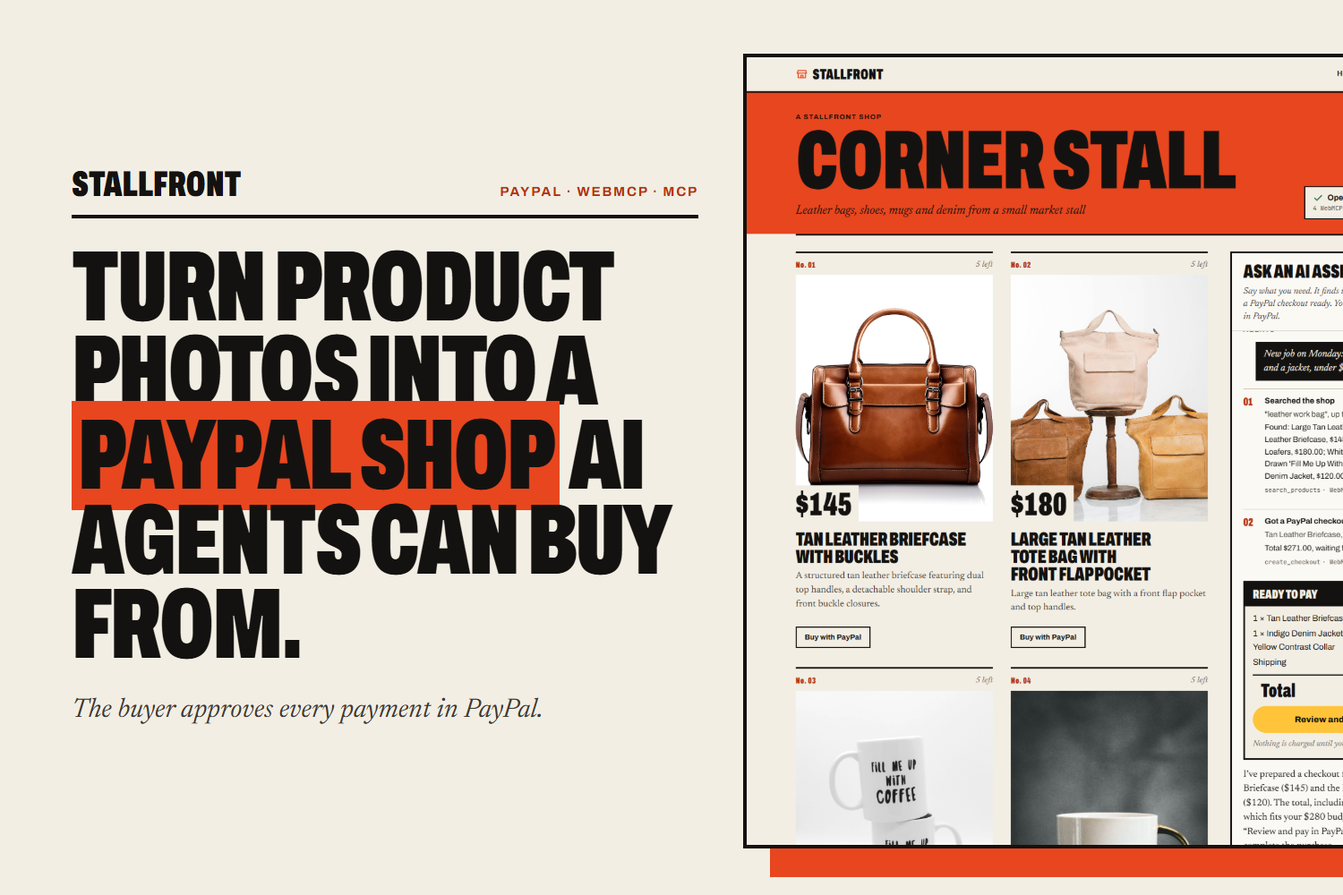
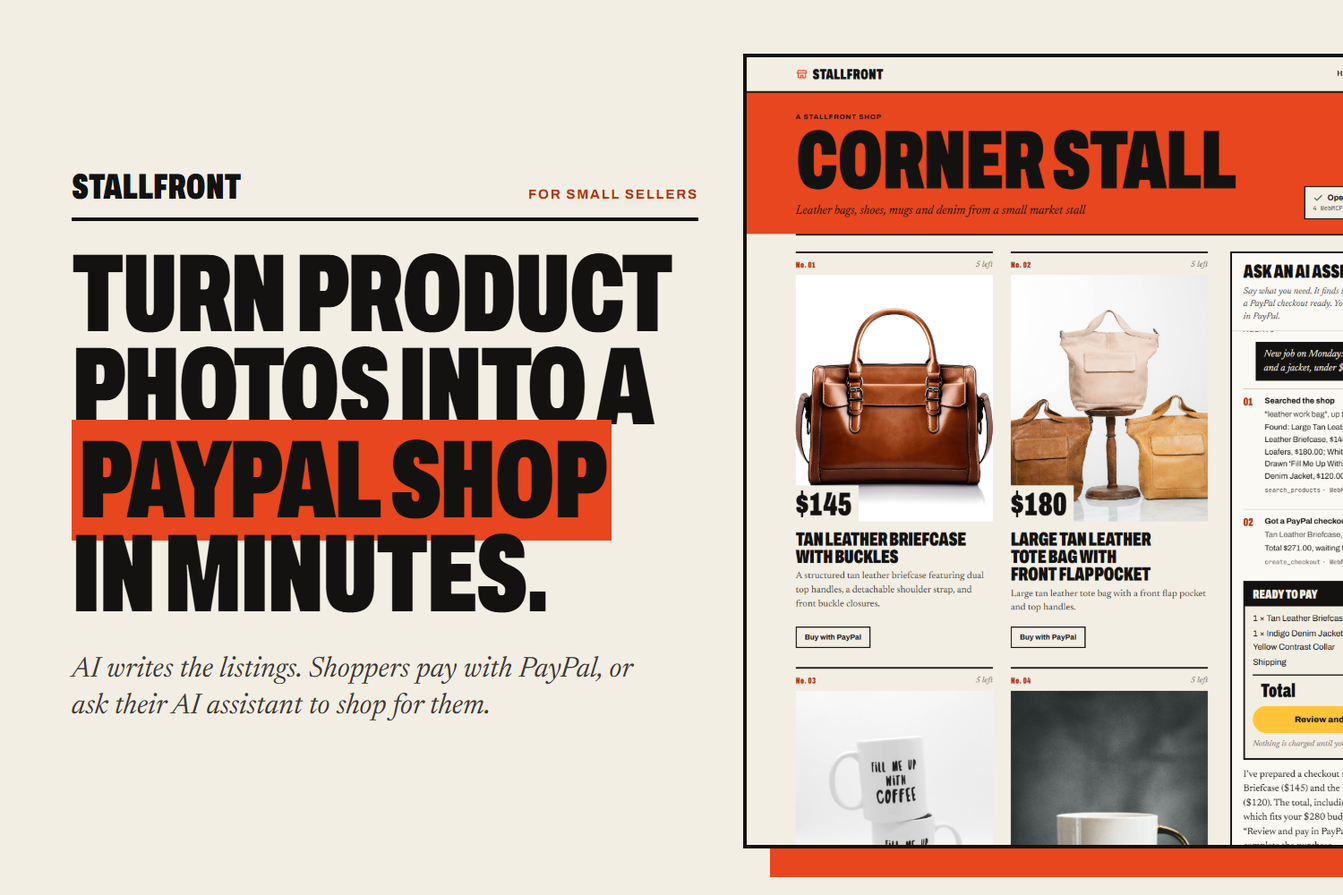
feat(copy): seller-first headline everywhere (D-009); seller view keeps shopper orders out of assistant steps
- Headline "Turn product photos into a PayPal shop in minutes.", always followed by the AI-assistant line
- Landing page title, description, hero and feature 03 (shoppers buy with PayPal or send an assistant)
- README title, opening, what it does, why it matters, proof row and try-it step for the Buy button
- Cover image rebuilt from docs/cover.html with scripts/cover.mjs
- Video script reordered: seller's problem, pitch, photos to shop, shopper and assistant, seller view
- Seller view: no "What the assistant did" list on a shopper's own order, and the activity panel lists assistant steps only
- README: coding-tool sentence removed

Changed region(s): [[0.0307, 0.279, 0.5213, 0.806], [0.0307, 0.186, 0.5213, 0.248]]

diff --git a/public/index.html b/public/index.html
@@ -3,8 +3,8 @@
 <head>
   <meta charset="utf-8">
   <meta name="viewport" content="width=device-width, initial-scale=1">
-  <title>Stallfront: turn product photos into a PayPal shop AI agents can buy from</title>
-  <meta name="description" content="Add photos of what you sell. Stallfront writes the listings, registers each product with PayPal and opens a shop AI shopping assistants can order from. The buyer approves every payment in PayPal.">
+  <title>Stallfront: turn product photos into a PayPal shop in minutes</title>
+  <meta name="description" content="Turn product photos into a PayPal shop in minutes. AI writes the listings. Shoppers pay with PayPal, or ask their AI assistant to shop for them.">
   <link rel="preconnect" href="https://fonts.googleapis.com">
   <link rel="preconnect" href="https://fonts.gstatic.com" crossorigin>
   <link href="https://fonts.googleapis.com/css2?family=Archivo:wdth,wght@62..125,400..900&family=Newsreader:ital,opsz,wght@0,6..72,400..600;1,6..72,400..600&family=JetBrains+Mono:wght@500&display=swap" rel="stylesheet">
@@ -71,8 +71,8 @@
     <section class="hero wrap">
       <div>
         <p class="kicker">For makers who sell through posts and PayPal links</p>
-        <h1>Turn product photos into a <span class="hl">PayPal shop</span> AI agents can buy from.</h1>
-        <p class="dek">Add photos of what you sell. Stallfront writes the listings, registers each product with PayPal and opens a shop that AI shopping assistants can search and order from. Your buyer approves every payment in PayPal.</p>
+        <h1>Turn product photos into a <span class="hl">PayPal shop</span> in minutes.</h1>
+        <p class="dek">AI writes the listings. Shoppers pay with PayPal, or ask their AI assistant to shop for them. Only the buyer can approve a payment.</p>
         <div class="cta">
           <a class="btn btn-clay" href="/new">Open your shop from photos</a>
           <a class="btn btn-ghost" href="/s/corner-stall">Try the demo shop</a>
@@ -131,8 +131,8 @@
         <div class="n">03</div>
         <h3>The buyer pays in PayPal</h3>
         <div>
-          <p>An assistant can get an order ready and hand it over. The buyer signs in to PayPal and approves the payment, and the money is captured on their way back.</p>
-          <p>You see every order, which assistant placed it and each step it took.</p>
+          <p>Shoppers press Buy with PayPal on any product, or let an assistant get the order ready. Either way, the buyer signs in to PayPal and approves the payment, and the money is captured on their way back.</p>
+          <p>You see every order, how it came in and, for an assistant's order, each step it took.</p>
         </div>
       </article>
     </section>

diff --git a/docs/cover.html b/docs/cover.html
@@ -1,0 +1,19 @@
+<!doctype html><html><head><meta charset="utf-8">
+<!-- Devpost thumbnail and README cover. Render with: node scripts/cover.mjs (writes docs/img/cover.png, 1500 x 1000). -->
+<link href="https://fonts.googleapis.com/css2?family=Archivo:wdth,wght@62..125,400..900&family=Newsreader:ital,opsz,wght@1,6..72,400&display=swap" rel="stylesheet">
+<style>
+html,body{margin:0;width:1500px;height:1000px;background:#f2eee4;color:#141210;overflow:hidden;font-family:Archivo,sans-serif}
+.wrap{display:grid;grid-template-columns:700px 1fr;height:100%;gap:50px;padding:0 0 0 80px;align-items:center}
+.brand{font:900 40px/1 Archivo;font-stretch:62%;text-transform:uppercase;border-bottom:4px solid #141210;padding-bottom:14px;margin-bottom:30px;display:flex;justify-content:space-between;align-items:baseline}
+.brand span{font:700 15px Archivo;letter-spacing:.12em;text-transform:uppercase;color:#b5320f}
+h1{font:900 124px/.84 Archivo;font-stretch:62%;text-transform:uppercase;letter-spacing:-.02em;margin:0 0 34px}
+h1 .hl{background:#e8461e;padding:0 .06em;box-decoration-break:clone;-webkit-box-decoration-break:clone}
+p{font:italic 400 32px/1.3 Newsreader,serif;color:#3e3933;margin:0;max-width:640px}
+.shot{position:relative;height:880px}
+.shot::before{content:'';position:absolute;inset:40px 0 -40px 30px;background:#e8461e}
+.shot img{position:relative;height:100%;display:block;object-fit:cover;object-position:left top;border:4px solid #141210;border-right:0}
+</style></head><body><div class="wrap"><div>
+<div class="brand">Stallfront<span>For small sellers</span></div>
+<h1>Turn product photos into a <span class="hl">PayPal shop</span> in minutes.</h1>
+<p>AI writes the listings. Shoppers pay with PayPal, or ask their AI assistant to shop for them.</p>
+</div><div class="shot"><img src="img/shop-assistant.png" alt=""></div></div></body></html>

diff --git a/public/js/dashboard.js b/public/js/dashboard.js
@@ -45,7 +45,7 @@ function renderOrders(orders) {
         </div>
         <div class="order-meta ids">PayPal order ${esc(o.paypalOrderId)}${o.captureId ? ` · payment ${esc(o.captureId)}` : ''}${ch.tech ? ` · ${ch.tech}` : ''}</div>
         ${o.note ? `<p class="note">The assistant's note: "${esc(o.note)}"</p>` : ''}
-        ${o.trace?.length ? `<details class="trace"><summary>What the assistant did (${o.trace.length} step${o.trace.length > 1 ? 's' : ''})</summary><ol>${o.trace.map((t) => `<li><span><span class="v">${esc(STEP[t.tool] || t.tool)}.</span> ${esc(t.summary)}</span><span class="tech">${esc(t.tool)}</span></li>`).join('')}</ol></details>` : ''}
+        ${o.trace?.length && o.channel !== 'web' ? `<details class="trace"><summary>What the assistant did (${o.trace.length} step${o.trace.length > 1 ? 's' : ''})</summary><ol>${o.trace.map((t) => `<li><span><span class="v">${esc(STEP[t.tool] || t.tool)}.</span> ${esc(t.summary)}</span><span class="tech">${esc(t.tool)}</span></li>`).join('')}</ol></details>` : ''}
       </article>`;
     })
     .join('');
@@ -53,8 +53,10 @@ function renderOrders(orders) {
 }
 
 function renderActivity(activity) {
-  if (!activity.length) return;
-  $('#activity').innerHTML = activity
+  // The panel is "What assistants did": a shopper's own Buy with PayPal click is not an assistant step.
+  const byAssistants = activity.filter((a) => a.channel !== 'web');
+  if (!byAssistants.length) return;
+  $('#activity').innerHTML = byAssistants
     .map((a) => `<li class="${a.ok ? '' : 'fail'}"><time datetime="${esc(a.at)}">${time(a.at)}</time><span class="t">${esc(STEP[a.tool] || a.tool)}</span><span class="s">${esc(a.summary)}</span><span class="tech">${esc(a.tool)} · ${esc(a.channel === 'mcp' ? 'MCP' : a.channel === 'web' ? 'website' : 'WebMCP')}</span></li>`)
     .join('');
 }

diff --git a/ops/DEMO.md b/ops/DEMO.md
@@ -1,12 +1,13 @@
 # DEMO: video script, shot list, recording steps
 
 Limit: under 3:00 (Official Rules s.4). Target: 2:45 to 2:50. Public on YouTube, English, no music you don't own.
-Every claim spoken here is in `ops/CLAIMS.md`.
+Every claim spoken here is in `ops/CLAIMS.md`. The story leads with the seller (D-009): the seller's problem, the pitch, opening a shop from photos, a shopper buying, then the seller's view.
 
 ## Before recording (Claude does this, on request)
 1. No more deploys until the video is done (each deploy wipes orders on Render).
 2. Redeploy once so the live seller view is clean, then warm the site.
-3. Create one paid MCP order on the live demo shop so the seller view shows both kinds of assistant (`scripts/mcp-check.mjs --checkout` + `scripts/approve-sandbox.mjs`).
+3. Create two paid orders on the live demo shop, so the seller view shows each way an order can arrive: one from a shopper's **Buy with PayPal** button (`scripts/buy-check.mjs` + `scripts/approve-sandbox.mjs`) and one from a connected AI app (`scripts/mcp-check.mjs --checkout` + `scripts/approve-sandbox.mjs`). The assistant's order is made live while recording.
+4. Start recording soon after. A free Render site that sits unused goes to sleep, and waking up wipes the orders (E-020).
 
 ## Before recording (you do this)
 1. Use Chrome or Edge. Close every other tab and window.
@@ -15,25 +16,26 @@ Every claim spoken here is in `ops/CLAIMS.md`.
 4. Make sure the **Google Translate extension** is on, set to translate PayPal's pages into English (the test buyer's PayPal pages are in Arabic).
 5. Open these tabs, in this order:
    1. https://stallfront.onrender.com
-   2. https://stallfront.onrender.com/s/corner-stall
-   3. https://stallfront.onrender.com/s/corner-stall/dashboard
-   4. https://stallfront.onrender.com/new
+   2. https://stallfront.onrender.com/new
+   3. https://stallfront.onrender.com/s/corner-stall
+   4. https://stallfront.onrender.com/s/corner-stall/dashboard
    5. https://github.com/Owolabenjade/stallfront (scroll down to the "How it works" diagram)
 6. In each tab press **Ctrl and +** once (zoom 110 to 125%). Check that the big headings still fit.
 7. Have the sandbox buyer email and password ready to paste (from the README "Try it" section).
 8. Read the script aloud once with a timer.
 
-## Script (about 370 words, roughly 2:45 with the actions)
+## Script (about 330 words, roughly 2:45 with the actions)
 
 | Time | Tab | What to do on screen | What to say |
 |---|---|---|---|
-| 0:00 to 0:15 | 1 Home | Show the page, scroll slowly past the photos | "AI assistants are starting to shop for people. But an assistant can only buy where a shop gives it tools to call, and PayPal's own agent-ready checkout is limited to its Store Sync merchants today. A maker who sells a few things through Instagram posts and PayPal links gets left out." |
-| 0:15 to 0:25 | 1 Home | Point at the headline | "Stallfront turns product photos into a PayPal shop that AI agents can buy from, and the buyer still approves every payment in PayPal." |
-| 0:25 to 1:20 | 2 Shop | Point at the "Open to AI shopping assistants" box. Click the suggestion "New job on Monday…". Wait for the steps and the "Ready to pay" card. Click **Review and pay in PayPal**, log in as the sandbox buyer, click the pay button. Wait for the receipt | "This is Corner Stall, a demo shop made from six product photos. The page is open to AI shopping assistants. I ask the built-in assistant: new job on Monday, get me a leather work bag and a jacket, under two hundred and eighty dollars for both. It searches the shop, picks the briefcase and the denim jacket, and gets a PayPal checkout ready. That's a real PayPal order, but the assistant can't pay. I review it in PayPal, sign in as the test buyer, and approve. Back on Stallfront, the payment has gone through, and here's the PayPal payment ID." |
-| 1:20 to 1:40 | 3 Seller view | Show the new paid order at the top. Click "What the assistant did". Point at the other order, placed by a connected AI app | "The seller sees every order: whether an assistant placed it on the shop page or an AI app connected from outside, which one it was, and each step it took." |
-| 1:40 to 2:15 | 4 New shop | Click "Use our four sample photos", then **Write my listings**. (Cut the wait in editing.) On the review page, point at "Check before you publish", change one price, then click **Publish my shop** and show "Registered with PayPal" | "Opening a shop starts with photos. A vision model writes each listing: title, description, price, and the words shoppers search for. It flags what it can't tell from a photo, like size or materials, and I set my own price. When I publish, every product is registered with PayPal, and the shop is open to AI assistants." |
-| 2:15 to 2:35 | 5 GitHub | Show the diagram, then scroll to "Proof" | "Under the hood: PayPal Orders for checkout and capture, PayPal Catalog Products for listings, Groq models for the assistant and the photo drafts, WebMCP on the page and MCP for every other agent, hosted on Render." |
-| 2:35 to 2:50 | 1 Home | Back to the home page | "We tested it ten times on the live site, and it reached the right checkout every time, in under four seconds. Stallfront: turn product photos into a PayPal shop AI agents can buy from. Try it at stallfront dot onrender dot com." |
+| 0:00 to 0:14 | 1 Home | Show the page, scroll slowly past the photos | "Say you sell a few things through Instagram posts and PayPal links. A buyer messages: is this still available? How much? You reply later with a PayPal link, and they may have moved on." |
+| 0:14 to 0:25 | 1 Home | Point at the headline, then the line under it | "Stallfront turns product photos into a PayPal shop in minutes. AI writes the listings. Shoppers pay with PayPal, or ask their AI assistant to shop for them." |
+| 0:25 to 0:55 | 2 New shop | Click "Use our four sample photos", then **Write my listings**. (Cut the wait in editing.) On the review page, point at "Check before you publish", change one price, then click **Publish my shop** and show "Registered with PayPal" | "Here's how a seller starts. I add four product photos, and the AI writes each listing: title, description, price and the words shoppers search for. It flags what a photo can't show, so I check those, and I set my own price. I publish, and every product is registered with PayPal." |
+| 0:55 to 1:40 | 3 Shop | Point at a product's **Buy with PayPal** button. Click the suggestion "New job on Monday…". Wait for the steps and the "Ready to pay" card. Click **Review and pay in PayPal**, log in as the sandbox buyer, click the pay button. Wait for the receipt | "This is Corner Stall, a demo shop made the same way from six photos. A shopper can press Buy with PayPal on any product, or ask the shop's AI assistant: new job on Monday, get me a leather work bag and a jacket, under two hundred and eighty dollars for both. It searches the shop, picks the briefcase and the denim jacket, and gets one PayPal checkout ready. The assistant can't pay. I review the order in PayPal, sign in as the test buyer, and approve. The payment has gone through, and here's the PayPal payment ID." |
+| 1:40 to 1:55 | 4 Seller view | Show the new paid order at the top. Click "What the assistant did". Point at the shopper's order and the order from a connected AI app | "On the seller's side, every order shows whether it's paid and how it came in: a shopper, the shop's assistant, or an AI app connected from outside, with each step an assistant took." |
+| 1:55 to 2:20 | 5 GitHub | Show the diagram, then scroll to "Proof" | "Under the hood: PayPal Orders for checkout and capture, PayPal Catalog Products for every listing, Groq models for the photo drafts and the assistant, and WebMCP on the page with MCP for other AI apps. It runs on Render." |
+| 2:20 to 2:35 | 1 Home | Back to the home page | "We tested the assistant ten times on the live site, and it reached the right checkout every time, in under four seconds." |
+| 2:35 to 2:48 | 1 Home | Hold on the headline; the end card follows | "Stallfront: turn product photos into a PayPal shop in minutes. Try it at stallfront dot onrender dot com." |
 
 ## Recording with Clipchamp (built into Windows 11)
 1. Open the Start menu, type **Clipchamp**, open it. Sign in with your Microsoft account if asked.
@@ -42,16 +44,16 @@ Every claim spoken here is in `ops/CLAIMS.md`.
 4. Record one row of the script at a time: click record, do the actions while reading the words, click stop. If you stumble, delete that clip and record the row again.
 5. The clips land on the timeline in order. To cut a wait (for example while listings are written): click the clip, move the playhead to the start of the wait, press **S** to split, move to the end of the wait, press **S** again, select the middle piece and press **Delete**. If you speed a part up instead, add a small text "sped up" over it.
 6. Captions: click **Captions** on the right, then **Turn on auto captions**. Read them once and fix any wrong words.
-7. Add a 2-second title card at the start (Text, "Stallfront", "Turn product photos into a PayPal shop AI agents can buy from") and an end card with https://stallfront.onrender.com.
+7. Add a 2-second title card at the start (Text: "Stallfront", then "Turn product photos into a PayPal shop in minutes", then a smaller line "Shoppers pay with PayPal, or ask their AI assistant to shop for them.") and an end card with https://stallfront.onrender.com.
 8. Check the total length at the bottom: it must be under 3:00.
 9. Click **Export**, choose **1080p**.
 
 ## Upload to YouTube
 1. Go to https://studio.youtube.com, click **Create**, then **Upload videos**, and pick the exported file.
-2. Title: `Stallfront: turn product photos into a PayPal shop AI agents can buy from`
+2. Title: `Stallfront: turn product photos into a PayPal shop in minutes`
 3. Description:
    ```
-   Stallfront turns product photos into a PayPal shop that AI agents can buy from, through WebMCP and MCP tools, with the buyer approving every payment in PayPal. Built for the PayPal AI Hackathon.
+   Stallfront turns product photos into a PayPal shop in minutes. AI writes the listings. Shoppers pay with PayPal, or ask their AI assistant to shop for them, and only the buyer can approve a payment. Built for the PayPal AI Hackathon.
    Live demo: https://stallfront.onrender.com
    Code: https://github.com/Owolabenjade/stallfront
    ```
@@ -62,3 +64,4 @@ Every claim spoken here is in `ops/CLAIMS.md`.
 - If the assistant takes more than 15 seconds or says the AI plan is busy: wait 30 seconds and click the suggestion again (the free AI plan limits requests per minute).
 - If writing listings pauses ("Short pause…"): it continues by itself; cut the wait in editing.
 - If the site is slow on first load: it was asleep; wait a minute and reload.
+- If the seller view shows no orders before you start: the site slept and restarted. Ask Claude to create the two orders again.

diff --git a/README.md b/README.md
@@ -1,8 +1,10 @@
-# Stallfront: turn product photos into a PayPal shop AI agents can buy from
+# Stallfront: turn product photos into a PayPal shop in minutes
 
 [Live demo](https://stallfront.onrender.com) · [Demo shop](https://stallfront.onrender.com/s/corner-stall) · [Seller view](https://stallfront.onrender.com/s/corner-stall/dashboard) · MCP endpoint: `https://stallfront.onrender.com/mcp/corner-stall` · Video: VIDEO_LINK
 
-For makers who sell a handful of products through social posts and PayPal links, Stallfront turns product photos into a PayPal-backed shop that AI assistants can browse and buy from through WebMCP tools. The buyer approves every payment in PayPal, so an agent goes from "find me a gift under $20" to a paid PayPal order in a few tool calls.
+AI writes the listings. Shoppers pay with PayPal, or ask their AI assistant to shop for them. Only the buyer can approve a payment, in PayPal.
+
+Stallfront is for makers who sell a handful of products through Instagram or WhatsApp posts and get paid with PayPal links. Each listing is drafted from a photo, each published product is registered in the PayPal catalog, and every shop is open to AI assistants from the start: the page offers its actions as WebMCP tools, and other AI apps connect over MCP.
 
 ![The demo shop: the assistant searched the shop and prepared a $271.00 PayPal checkout through the page's WebMCP tools](docs/img/shop-assistant.png)
 
@@ -11,12 +13,13 @@ For makers who sell a handful of products through social posts and PayPal links,
 ## What it does
 
 - **Photos become listings.** A seller adds up to six product photos. A vision model drafts each listing (title, description, price, tags, who it suits as a gift) and flags what the photo can't confirm. The seller checks the drafts and publishes, and each product is registered in the PayPal catalog.
-- **The shop speaks to agents.** Every shop page registers four WebMCP tools: `search_products`, `get_product`, `create_checkout` and `get_order_status`. The same tools are served over MCP at `/mcp/<shop>`, so a browser agent or any MCP client can shop without scraping the page.
+- **Shoppers pay with PayPal.** Every product has a **Buy with PayPal** button. It creates a PayPal order for that product and sends the shopper to PayPal to approve it.
+- **AI assistants can shop too.** Every shop page registers four WebMCP tools: `search_products`, `get_product`, `create_checkout` and `get_order_status`. The same tools are served over MCP at `/mcp/<shop>`, so a browser agent or any MCP client can shop without scraping the page.
 - **The buyer approves in PayPal.** `create_checkout` creates a PayPal order and returns its approval link. The agent can't pay: the buyer signs in to PayPal and approves, and Stallfront captures the payment on return. The seller sees which channel and which agent placed each order, along with the tool calls behind it.
 
 ## Why it matters
 
-AI assistants are starting to shop on people's behalf, but an assistant can only buy where a shop gives it tools to call. PayPal's own WebMCP "agent ready" checkout is limited to Store Sync customers today ([PayPal developer blog, 16 Sep 2026](https://developer.paypal.com/community/blog/WebMCP_PayPal_Agent_Ready)). A maker who sells a few bags and mugs through Instagram posts and PayPal links has no catalog, no structured product data and no agent tools, so agents can't see their stock or check out. Stallfront gives that seller the same thing in a few minutes, starting from the photos they already have.
+A maker who sells a few bags and mugs through Instagram posts and PayPal links has no shop. Buyers often message to ask whether something is still available and what it costs, and setting up a full online store is a lot of work for six products. AI assistants are starting to shop for people too, but an assistant can only buy where a shop gives it tools to call, and PayPal's own WebMCP "agent ready" checkout is limited to Store Sync customers today ([PayPal developer blog, 16 Sep 2026](https://developer.paypal.com/community/blog/WebMCP_PayPal_Agent_Ready)). Stallfront gives that seller a PayPal shop in minutes, starting from the photos they already have, and opens it to AI assistants at the same time.
 
 ## How it works
 
@@ -69,6 +72,7 @@ All checks below ran against the live Render URL unless marked local. The full m
 | Buyer assistant, "a leather work bag and a jacket, under $280 for both" | 10/10 runs reached the briefcase and the jacket for $271.00 in two tool calls; median 3.5 s and max 3.7 s to the PayPal handoff | [`scripts/reliability.mjs`](scripts/reliability.mjs), headless Chrome, E-019 |
 | Buyer assistant, "a gift under $20 for a coffee lover" | 5/5 reached the coffee mug for $24.00; median 4.1 s. An earlier prompt version asked "should I add it to your cart?" instead (0/3), which we fixed | same, E-015, E-019 |
 | Payment captured from the public URL | Order `ord_66d4bdfabdcc`: PayPal order `31P99297WK614384W`, capture `1XT10488423082226`, $271.00, channel WebMCP | [`scripts/approve-sandbox.mjs`](scripts/approve-sandbox.mjs) logs in as the sandbox buyer, E-019 |
+| Shopper's Buy button, no assistant | **Buy with PayPal** on the gold-handle mug opened PayPal checkout 3.4 s after the click. Paid: order `ord_19f98700e5bd`, PayPal order `74U52681SM570642S`, capture `97D51285HA094451P`, $31.00, channel website | [`scripts/buy-check.mjs`](scripts/buy-check.mjs), then `approve-sandbox.mjs`, E-020 |
 | MCP client buys | SDK client: search, get, `create_checkout`, buyer approves, capture (local, E-014); `create_checkout` on Render, PayPal order `3HN04577SY5380117` | [`scripts/mcp-check.mjs`](scripts/mcp-check.mjs) `--checkout`, E-014, E-019 |
 | Photos to a live shop | The four sample photos drafted, published, 4 of 4 PayPal catalog products; about a minute on the free AI plan | [`scripts/onboard-check.mjs`](scripts/onboard-check.mjs), E-016, E-019 |
 | Smoke check and unit tests | Smoke 6/6 on Render and on a fresh clone; `npm test` 13/13 | E-016, E-019 |
@@ -81,7 +85,7 @@ All checks below ran against the live Render URL unless marked local. The full m
 
 **On the live site** (the free plan sleeps when idle, so the first load can take about a minute):
 
-1. Open the [demo shop](https://stallfront.onrender.com/s/corner-stall) and click the suggestion "New job on Monday: get me a leather work bag and a jacket, under $280 for both". Watch the steps appear, then click **Review and pay in PayPal**.
+1. Open the [demo shop](https://stallfront.onrender.com/s/corner-stall). Click **Buy with PayPal** on any product, or click the suggestion "New job on Monday: get me a leather work bag and a jacket, under $280 for both", watch the steps appear, then click **Review and pay in PayPal**.
 2. Log in with the PayPal sandbox test buyer below and pay. This is PayPal's sandbox, so no real money moves. You return to a receipt with the PayPal payment ID.
 3. Open the [seller view](https://stallfront.onrender.com/s/corner-stall/dashboard) to see the order, the assistant that placed it and each step it took.
 4. Optional: connect an MCP client, for example `claude mcp add --transport http corner-stall https://stallfront.onrender.com/mcp/corner-stall`, and ask it to shop.
@@ -116,7 +120,7 @@ npm test               # unit tests, no network
 
 ## Built during the PayPal AI Hackathon
 
-Work started on 2026-11-11 (UTC) and nothing existed before. The code was written with Claude Code (Anthropic) as the coding assistant.
+Work started on 2026-11-11 (UTC) and nothing existed before.
 
 Product photos from Unsplash, under the Unsplash License: [Caio Coelho](https://unsplash.com/photos/QRN47la37gw) (denim jacket), [Latico Leathers](https://unsplash.com/photos/-qgDzKxrHMg) (totes), [Mel Poole](https://unsplash.com/photos/vQQoZzKO9Ig) (slogan mugs), [Noah Smith](https://unsplash.com/photos/LkuH3Txi_gs) (loafers), [Nong](https://unsplash.com/photos/2dDJdOlA3CY) (gold-handle mug) and [PersonalGraphic.com](https://unsplash.com/photos/IFlg3kFbR0E) (briefcase).
 
@@ -126,6 +130,7 @@ Product photos from Unsplash, under the Unsplash License: [Caio Coelho](https://
 
 ## What's next
 
+- Put it in front of real market sellers and see what they change.
 - Per-seller PayPal onboarding, so each shop is paid into its own account.
 - Capture and refund webhooks, and order emails for the seller.
 - Use PayPal's own agent-ready checkout once it opens beyond Store Sync merchants.

diff --git a/ops/CLAIMS.md b/ops/CLAIMS.md
@@ -6,10 +6,10 @@ A `verified` row cites at least one evidence ID that exists in EVIDENCE.
 
 | ID | Claim (exact public wording) | Where it appears | Evidence | Status |
 |---|---|---|---|---|
-| C-001 | For makers who sell a handful of products through social posts and PayPal links, Stallfront turns product photos into a PayPal-backed shop that AI assistants can browse and buy from through WebMCP tools. The buyer approves every payment in PayPal, so an agent goes from "find me a gift under $20" to a paid PayPal order in a few tool calls. | README intro, video opening, submission | E-019 (gift prompt 5/5 to checkout in 2 to 3 calls; paid order from an agent checkout), E-016 (photos to shop) | verified |
-| C-002 | Turn product photos into a PayPal shop AI agents can buy from. | README title, site headline, repo description, video title card (Devpost pitch moved to C-023; the rest follow once the human approves the new headline, D-009) | E-016, E-019 | verified |
-| C-003 | PayPal's own WebMCP "agent ready" checkout is limited to Store Sync customers today | README "Why it matters", video hook | E-002 | verified |
-| C-004 | The agent can't pay: the buyer signs in to PayPal and approves. Site: "The assistant stops at this button. Only the buyer can approve the payment, in PayPal." / "Nothing is charged until you approve it in PayPal." | README, video, site | E-013, E-019 (approval through the sandbox buyer login; tools return an approval link) | verified |
+| C-001 | README opening: "AI writes the listings. Shoppers pay with PayPal, or ask their AI assistant to shop for them. Only the buyer can approve a payment, in PayPal." / "Stallfront is for makers who sell a handful of products through Instagram or WhatsApp posts and get paid with PayPal links. Each listing is drafted from a photo, each published product is registered in the PayPal catalog, and every shop is open to AI assistants from the start: the page offers its actions as WebMCP tools, and other AI apps connect over MCP." | README intro | E-016, E-019 (photos to listings and catalog products; assistant to checkout), E-020 (shopper pays with PayPal), E-003, E-014 (WebMCP and MCP) | verified |
+| C-002 | Turn product photos into a PayPal shop AI agents can buy from. | Nowhere now: replaced by C-023 on the site, README, cover image, video script, package.json and Devpost text (D-009) | E-016, E-019 | retracted |
+| C-003 | PayPal's own WebMCP "agent ready" checkout is limited to Store Sync customers today | README "Why it matters", Devpost "Inspiration" | E-002 | verified |
+| C-004 | The agent can't pay: the buyer signs in to PayPal and approves. Site: "The assistant stops at this button. Only the buyer can approve the payment, in PayPal." / "Nothing is charged until you approve it in PayPal." / hero: "Only the buyer can approve a payment." Video: "The assistant can't pay." | README, video, site | E-013, E-019 (approval through the sandbox buyer login; tools return an approval link) | verified |
 | C-005 | 10/10 runs reached the briefcase and the jacket for $271.00 in two tool calls; median 3.5 s and max 3.7 s to the PayPal handoff | README Proof | E-019 | verified |
 | C-006 | "a gift under $20 for a coffee lover": 5/5 reached the coffee mug for $24.00; median 4.1 s. An earlier prompt version asked "should I add it to your cart?" instead (0/3), which we fixed | README Proof | E-015, E-019 | verified |
 | C-007 | Order ord_66d4bdfabdcc: PayPal order 31P99297WK614384W, capture 1XT10488423082226, $271.00, channel WebMCP | README Proof | E-019 | verified |
@@ -24,11 +24,12 @@ A `verified` row cites at least one evidence ID that exists in EVIDENCE.
 | C-016 | We have not tested a browser's built-in WebMCP agent. MCP checkout was tested with our own SDK client script, not with Claude Desktop | README "What is real" | E-003, E-014 (limits) | verified |
 | C-017 | Four photos became a live shop with four PayPal catalog products in about a minute on the free plan | Submission "Accomplishments" | E-016, E-019 | verified |
 | C-018 | The gift request went from 0/3 to 5/5 | Submission "Challenges", "What we learned" | E-015, E-019 | verified |
-| C-019 | Video: "We tested it ten times on the live site, and it reached the right checkout every time, in under four seconds" | Video script | E-019 (10/10, max 3.7 s) | verified |
+| C-019 | Video: "We tested the assistant ten times on the live site, and it reached the right checkout every time, in under four seconds" | Video script | E-019 (10/10, max 3.7 s) | verified |
 | C-020 | Corner Stall's six listings were drafted by the vision model from six Unsplash photos, through the same pipeline as /new. Two things were edited by hand (loafers' category; one unfinished description). Drafted prices vary between runs: the jacket came back at $65, $120 and $180 | README "What is real" | E-019 | verified |
 | C-021 | Site: "From Corner Stall, our demo shop. Every listing there started as a photo." | Landing page caption | E-019 | verified |
 | C-022 | Site sample transcript: "Searched the shop: "leather work bag", up to $280. Found five, including the Tan Leather Briefcase, $145, and the Indigo Denim Jacket, $120" then "Got a PayPal checkout ready: briefcase and jacket, $265 plus $6 shipping", total $271.00 | Landing page | E-019 (search output captured 12:30Z; every run made these two calls) | verified |
-| C-023 | Devpost pitch: "Turn product photos into a PayPal shop in minutes. AI writes the listings. Shoppers pay with PayPal, or ask their AI assistant to shop for them." Proposed headline: "Turn product photos into a PayPal shop in minutes." | Devpost elevator pitch; site, README and video once approved (D-009) | E-016 and E-019 (four photos to a published shop with PayPal catalog products in about a minute), E-020 (shopper pays with PayPal), E-019 (assistant to checkout) | verified |
+| C-023 | Headline (approved, D-009): "Turn product photos into a PayPal shop in minutes.", always followed by "AI writes the listings. Shoppers pay with PayPal, or ask their AI assistant to shop for them." | Devpost elevator pitch; site title, meta description, headline and the line under it; README title and opening; cover image; video title card, narration and close; YouTube title and description; package.json; GitHub About (set by the human) | E-016 and E-019 (four photos to a published shop with PayPal catalog products in about a minute), E-020 (shopper pays with PayPal), E-019 (assistant to checkout) | verified |
 | C-024 | Every product has a "Buy with PayPal" button that goes straight to PayPal checkout. Sandbox payments went through from the "Buy with PayPal" button and from the assistant | Submission "What it does", "Accomplishments" | E-020 (button, $31.00 captured on Render), E-019 (assistant order captured on Render) | verified |
 | C-025 | An outside MCP client searched the shop, built a checkout and completed a sandbox payment. That full run was local; creating the checkout was also confirmed on the live site. (Replaces the earlier draft line "captured from the public URL, through both WebMCP and MCP", which overstated the MCP part) | Submission "Accomplishments" | E-014 (local, captured), E-019 (Render, create_checkout) | verified |
 | C-026 | Every shop publishes its actions as WebMCP tools on the page and over MCP. "This is the pattern PayPal describes for its agent-ready checkout, offered here to sellers who don't use Store Sync." | Submission "What it does" | E-002 (PayPal: tools to discover products and start checkout, buyer approves in PayPal; Store Sync only), E-003, E-019 | verified |
+| C-027 | Site feature 03: "Shoppers press Buy with PayPal on any product, or let an assistant get the order ready. Either way, the buyer signs in to PayPal and approves the payment, and the money is captured on their way back." / "You see every order, how it came in and, for an assistant's order, each step it took." Video: "every order shows whether it's paid and how it came in: a shopper, the shop's assistant, or an AI app connected from outside, with each step an assistant took." | Landing page feature 03, video script | E-020 (shopper order captured, channel web), E-014 (MCP order in the seller view with its steps), E-022 (seller view labels a shopper order "Shopper · on your website" with no assistant steps) | verified |

diff --git a/ops/SUBMISSION.md b/ops/SUBMISSION.md
@@ -3,7 +3,7 @@
 Paste each field into the Devpost form. Keep it consistent with README.md and ops/CLAIMS.md.
 Check the real form for fields not listed here and add them.
 The human's editable copy is the doc "Stallfront Devpost description" (https://claude.ai/artifact/2UQb5M2ibCJ6vb3ZwHthFP). If it was edited, read it and copy the changes here before submitting.
-Positioning: lead with the seller; AI assistants come second (D-009).
+Positioning: lead with the seller; the AI-assistant line always follows the headline (D-009, E-021).
 Before pasting: check Devpost's preview. If prices between two `$` signs render as a formula, put a backslash before each `$`.
 
 ## Project name
@@ -24,7 +24,7 @@ VIDEO_LINK (YouTube, public, under 3:00)
 javascript, node.js, express, html, css, paypal, paypal-orders-v2, paypal-catalog-products, groq, gpt-oss-120b, qwen, webmcp, model-context-protocol, render, puppeteer
 
 ## Image gallery (upload in this order)
-1. docs/img/cover.png (thumbnail; remake it with the new headline once approved, I-022)
+1. docs/img/cover.png (thumbnail: the headline and the AI-assistant line; rebuild with `node scripts/cover.mjs`)
 2. docs/img/review.png: AI drafts each listing from a photo and lists what the seller should check.
 3. docs/img/shop-assistant.png: Asked for a work bag and a jacket under $280, the shop's assistant prepared a $271.00 PayPal checkout.
 4. docs/img/receipt.png: The buyer approved in PayPal, and the receipt shows the PayPal payment ID.
@@ -37,7 +37,7 @@ javascript, node.js, express, html, css, paypal, paypal-orders-v2, paypal-catalo
 ## About the project (paste as Markdown)
 
 ### Inspiration
-Stallfront is for makers who sell a handful of products through Instagram or WhatsApp posts and get paid with PayPal links. For them, every sale starts with a message: "Is this still available? How much?" The seller answers when they can and sends a PayPal link, and by then some buyers have moved on.
+Stallfront is for makers who sell a handful of products through Instagram or WhatsApp posts and get paid with PayPal links. Picture a sale there. A buyer messages: "Is this still available? How much?" The seller replies when they can with a PayPal link, and by then the buyer may have moved on.
 
 Setting up a full online store is a lot of work for six products. Meanwhile, AI assistants are starting to shop for people, and an assistant can't buy from a post. PayPal [launched agent-ready checkout in September 2026](https://developer.paypal.com/community/blog/WebMCP_PayPal_Agent_Ready), but it is limited to Store Sync merchants today.
 

diff --git a/ops/DECISIONS.md b/ops/DECISIONS.md
@@ -69,7 +69,7 @@ Consequences: Every commit ID changed (for example the first commit e17f1b1 is n
 
 ## D-009: Lead with the seller, not with AI agents
 Date (UTC): 2026-11-11T15:10Z
-Status: accepted (the human's call); the exact headline is proposed and waits for the human's OK
+Status: accepted (the human's call); headline approved by the human at 2026-11-11T15:33Z after the five-second test (E-021), on the condition that the AI-assistant line always follows it
 Context: The Gate B tagline "Turn product photos into a PayPal shop AI agents can buy from" put AI agents first, because the name does not say it (D-003) and the research pointed at agentic commerce: PayPal's agent-ready checkout is limited to Store Sync merchants (E-002), the Best Use of Agentic Commerce mention was the most direct prize fit, and the agent part is what separates Stallfront from store builders. The human does not want agents as the main selling point: sellers are the users, and the MCP and agent side is better sold to developers on its own. The rubric supports this for three of five criteria (Potential Impact asks for a real problem for a real audience; Design asks for a product, not a proof of concept; Presentation asks who it is for).
 Decision: Public copy leads with the seller's job: photos become a PayPal shop in minutes, AI writes the listings, shoppers pay with PayPal. AI shopping assistants come second, as what sets the shop apart, and the WebMCP and MCP detail sits in a developer part of "What it does" and in "How we built it". Proposed headline: "Turn product photos into a PayPal shop in minutes." Devpost pitch: "Turn product photos into a PayPal shop in minutes. AI writes the listings. Shoppers pay with PayPal, or ask their AI assistant to shop for them."
 Alternatives: Keep the agent-led tagline (strongest for the Agentic Commerce mention and the Innovation criterion); lead with agents only in the video.

diff --git a/AGENTS.md b/AGENTS.md
@@ -1,6 +1,6 @@
 # Stallfront: agent guide
 
-For makers who sell a handful of products through social posts and PayPal links, Stallfront turns product photos into a PayPal-backed shop that AI assistants can browse and buy from through WebMCP tools, with the buyer approving every payment in PayPal, so an agent goes from "find me a gift under $40" to a paid PayPal order in a few tool calls.
+For makers who sell a handful of products through social posts and PayPal links, Stallfront turns product photos into a PayPal shop in minutes by drafting each listing with a vision model and registering it in the PayPal catalog, so shoppers can pay with PayPal or send their AI assistant to shop for them, and only the buyer can approve a payment.
 
 This repository is the project's memory; chat history is not. Every session starts from these files and ends by updating them, so any agent can pick up the work in a fresh session.
 
@@ -59,6 +59,6 @@ This repository is the project's memory; chat history is not. Every session star
 | `ops/DEPENDENCIES.md` | Verified dependency facts |
 | `ops/CLOCK.md` | Deadline, gates, session log |
 | `ops/private/` | Gitignored notes that must not be public |
-| `server/` | Node service: shop API, PayPal client, Claude calls, MCP endpoint |
+| `server/` | Node service: shop API, PayPal client, AI calls (Groq), MCP endpoint |
 | `public/` | Pages and browser code, including the WebMCP tool registration |
 | `scripts/` | Smoke check and seed script |

diff --git a/ops/PLAN.md b/ops/PLAN.md
@@ -1,8 +1,8 @@
 # PLAN
 
 Project: Stallfront
-Thesis: For makers who sell a handful of products through social posts and PayPal links, Stallfront turns product photos into a PayPal-backed shop that AI assistants can browse and buy from through WebMCP tools, with the buyer approving every payment in PayPal, so an agent goes from "find me a gift under $40" to a paid PayPal order in a few tool calls.
-Tagline: Turn product photos into a PayPal shop in minutes. (Proposed in D-009, replacing "Turn product photos into a PayPal shop AI agents can buy from." once the human approves it.)
+Thesis: For makers who sell a handful of products through social posts and PayPal links, Stallfront turns product photos into a PayPal shop in minutes by drafting each listing with a vision model and registering it in the PayPal catalog, so shoppers can pay with PayPal or send their AI assistant to shop for them, and only the buyer can approve a payment.
+Tagline: Turn product photos into a PayPal shop in minutes. Always followed by: "AI writes the listings. Shoppers pay with PayPal, or ask their AI assistant to shop for them." (D-009, E-021)
 Timebox: hackathon
 Deadline and gates: see ops/CLOCK.md
 

diff --git a/.agents/product-marketing.md b/.agents/product-marketing.md
@@ -4,7 +4,7 @@
 **Last updated:** 2026-11-11
 
 ## Product Overview
-**One-liner:** Turn product photos into a PayPal shop in minutes. (Proposed in D-009; it replaces "...a PayPal shop AI agents can buy from" once the builder approves it.)
+**One-liner:** Turn product photos into a PayPal shop in minutes. Always followed by: "AI writes the listings. Shoppers pay with PayPal, or ask their AI assistant to shop for them." (approved, D-009; E-021)
 **Order of the story:** the seller first (photos, listings, PayPal shop, orders without DMs), then shoppers (pay with PayPal, or send an AI assistant), then developers and AI apps (WebMCP and MCP).
 **What it does:** A maker adds photos of what they sell. Stallfront drafts the listings, registers each product with PayPal and opens a shop page where people buy with PayPal, and where AI shopping assistants can search and prepare orders too. The buyer always approves the payment in PayPal.
 **Product category:** Online shop builder for small sellers (the shelf: "simple online store", "PayPal shop", "sell on Instagram").
